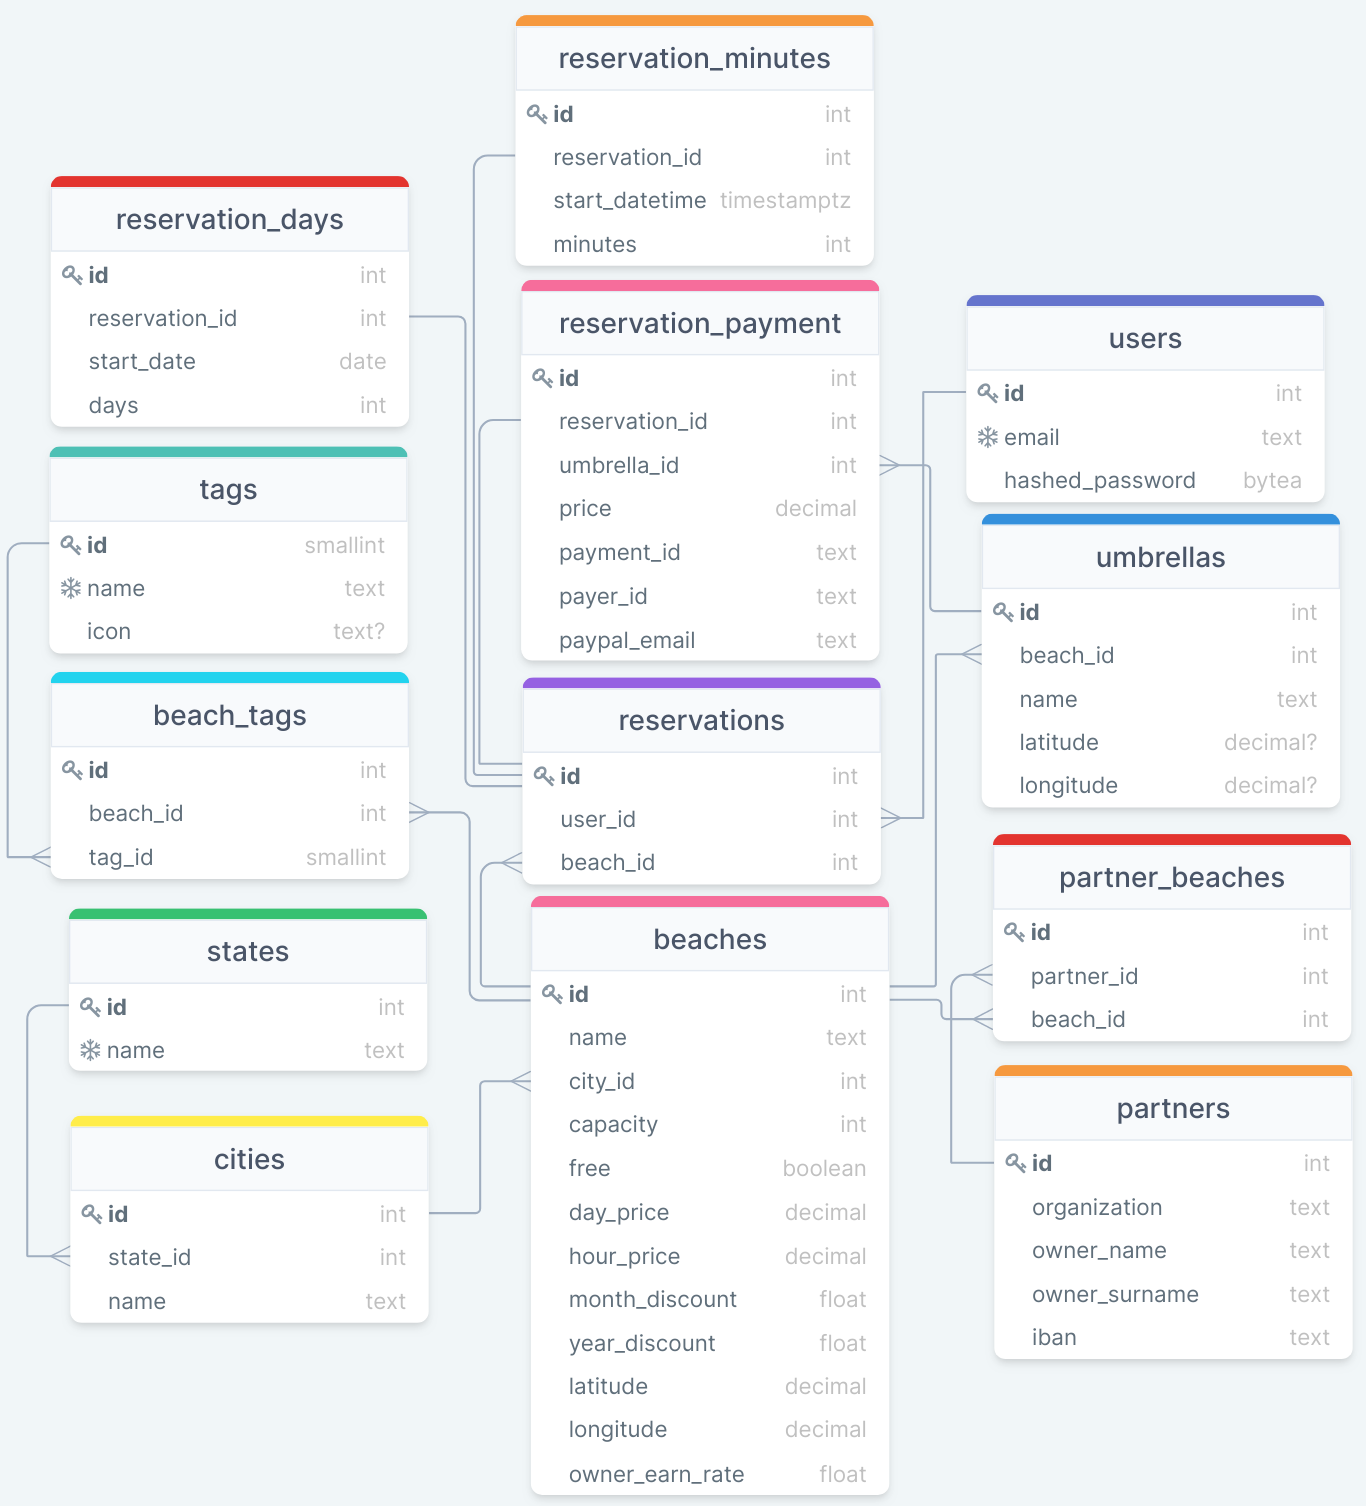
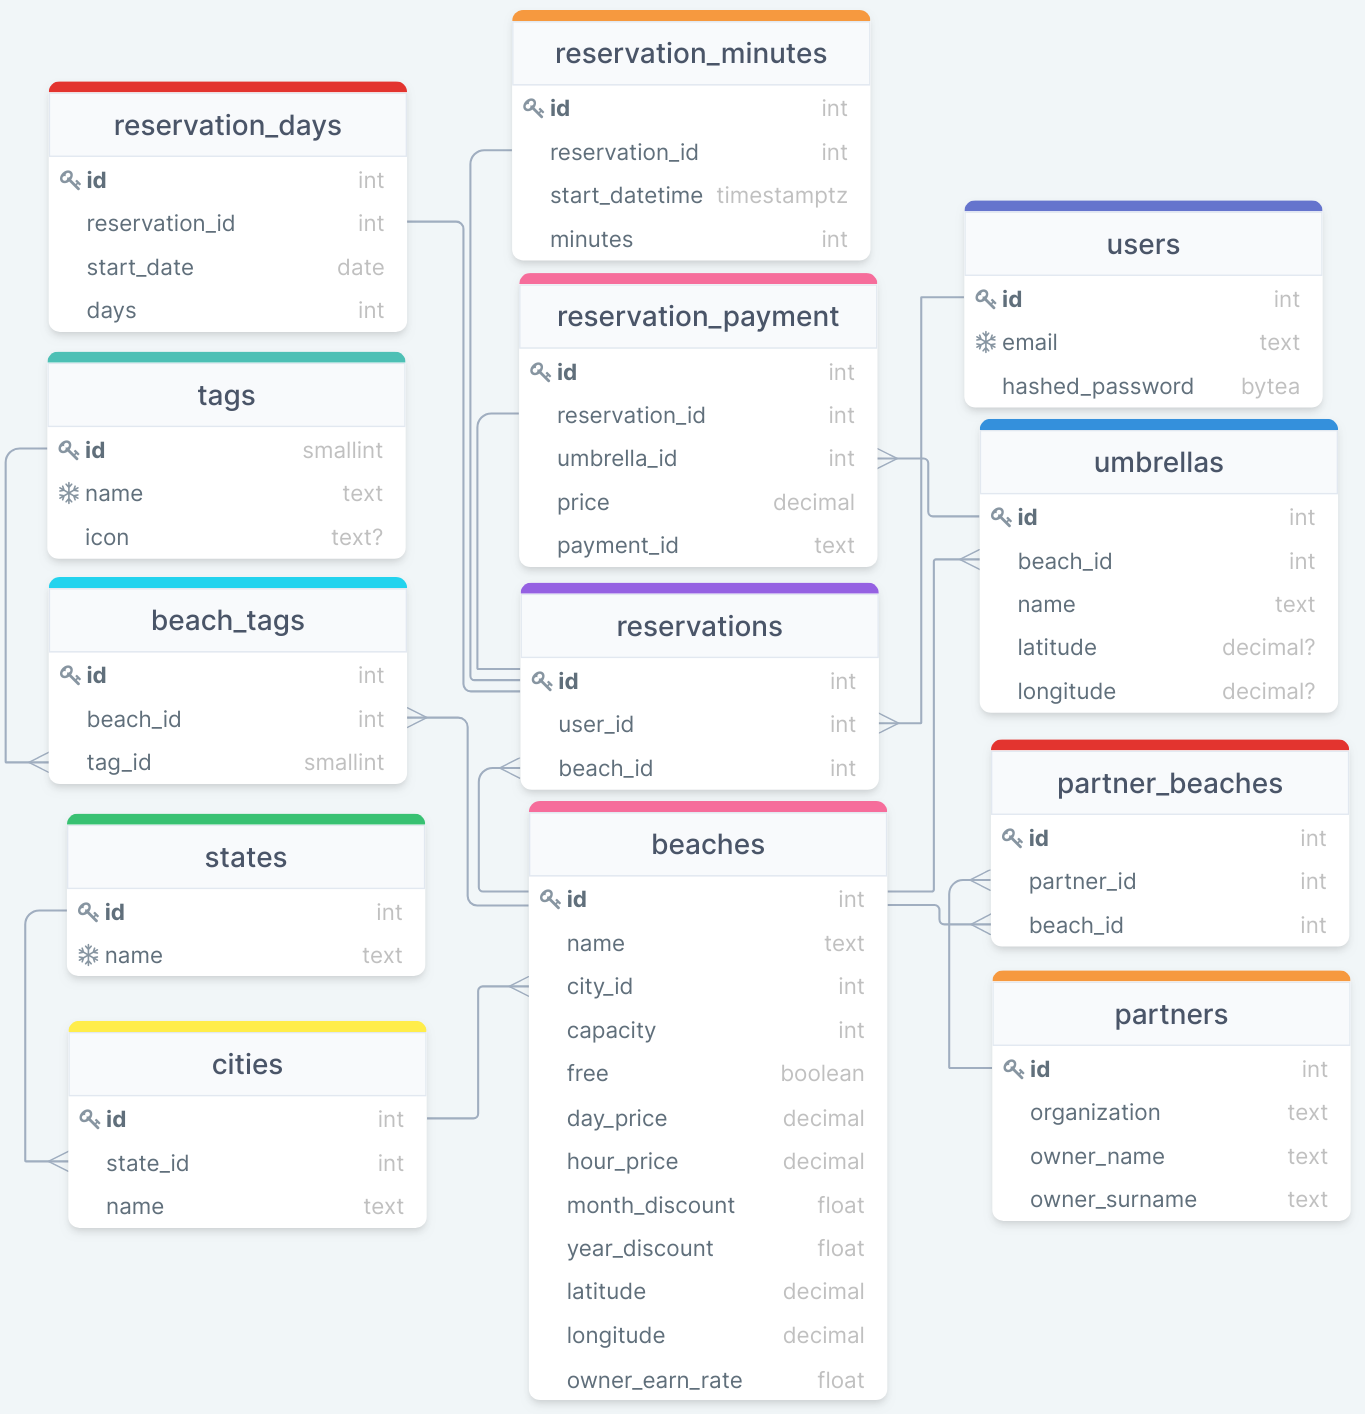
WIP

diff --git a/document/content/4.analisi-funzionale.tex b/document/content/4.analisi-funzionale.tex
@@ -35,4 +35,6 @@ Le API si occuperanno di interfacciarsi con il Database. Ho scelto di utilizzare
 \subsection{Pagamento elettronico}%
 \label{sub:pagamento_elettronico}
 
-Per permettere ai clienti di prenotare spiaggie private \`e necessario implementare un servizio di e-commerce. Analizzando le varie possibilit\`a il servizio pi\`u adatto mi \`e sembrato essere \emph{PayPal Checkout}, le API sono semplici da integrare nel sito web e permette di pagare sia con PayPal che con Carte di Credito. Il servizio \emph{I-Beach} utilizza la stessa libreria.
+Per permettere ai clienti di prenotare spiaggie private \`e necessario implementare un servizio di e-commerce. Analizzando le varie possibilit\`a il servizio pi\`u adatto mi \`e sembrato essere \emph{PayPal Checkout}, le API sono semplici da integrare nel sito web e permette di pagare sia con PayPal che con Carte di Credito. Anche \emph{I-Beach} utilizza questo servizio.
+
+%TODO: Generazione codice QR

diff --git a/document/content/5.database.tex b/document/content/5.database.tex
@@ -1,4 +1,6 @@
-\section{Modello E/R}%
+\section{Database}
+
+\subsection{Modello E/R}%
 \label{sec:modello_e_r}
 
 \includegraphics[width=\linewidth]{modelloer.png}
@@ -10,3 +12,5 @@ Le tabelle reservation\_days, reservation\_minutes e reservation\_payment sono t
     \item \textbf{reservation\_minutes}: Aggiunge informazioni sulla prenotazione se la prenotazione \`e della durata di alcuni minuti o ore.
     \item \textbf{reservation\_payment}: Aggiunge informazioni sulla prenotazione di \allowbreak{ombrelloni}. Non \`e presente se viene prenotata una spiaggia libera. Contine informazioni sulla transazione PayPal.
 \end{itemize}
+
+Le informazioni per il pagamento degli Stabilimenti Partner non sono incluse all'interno della tabella partners siccome sono dati sensibili. I dati sensibili insieme al \emph{salt} delle password devono essere salvati in un database separato per permettere un livello di sicurezza superiore.

diff --git a/document/main.tex b/document/main.tex
@@ -9,7 +9,7 @@
 \usepackage{graphicx} 
 \usepackage{pdflscape} 
 \usepackage{booktabs}
-\usepackage{natbib}
+\usepackage[square,numbers]{natbib}
 \usepackage{environ}
 \usepackage{caption}
 \usepackage{tikz}
@@ -36,8 +36,6 @@
 
 \begin{document}
 
-\nocite{*}
-
 \subfile{content/0.title}
 
 \tableofcontents
@@ -52,6 +50,8 @@
 \subfile{content/6.database-modello-logico}
 \subfile{content/7.sicurezza-informatica}
 \subfile{content/8.rete}
+
+\nocite{*}
 
 \bibliography{bibliography}
 

diff --git a/document/content/8.rete.tex b/document/content/8.rete.tex
@@ -1,3 +1,4 @@
+\newpage
 \section{Rete per uno Stabilimento Balneare}%
 \label{sec:rete}
 
